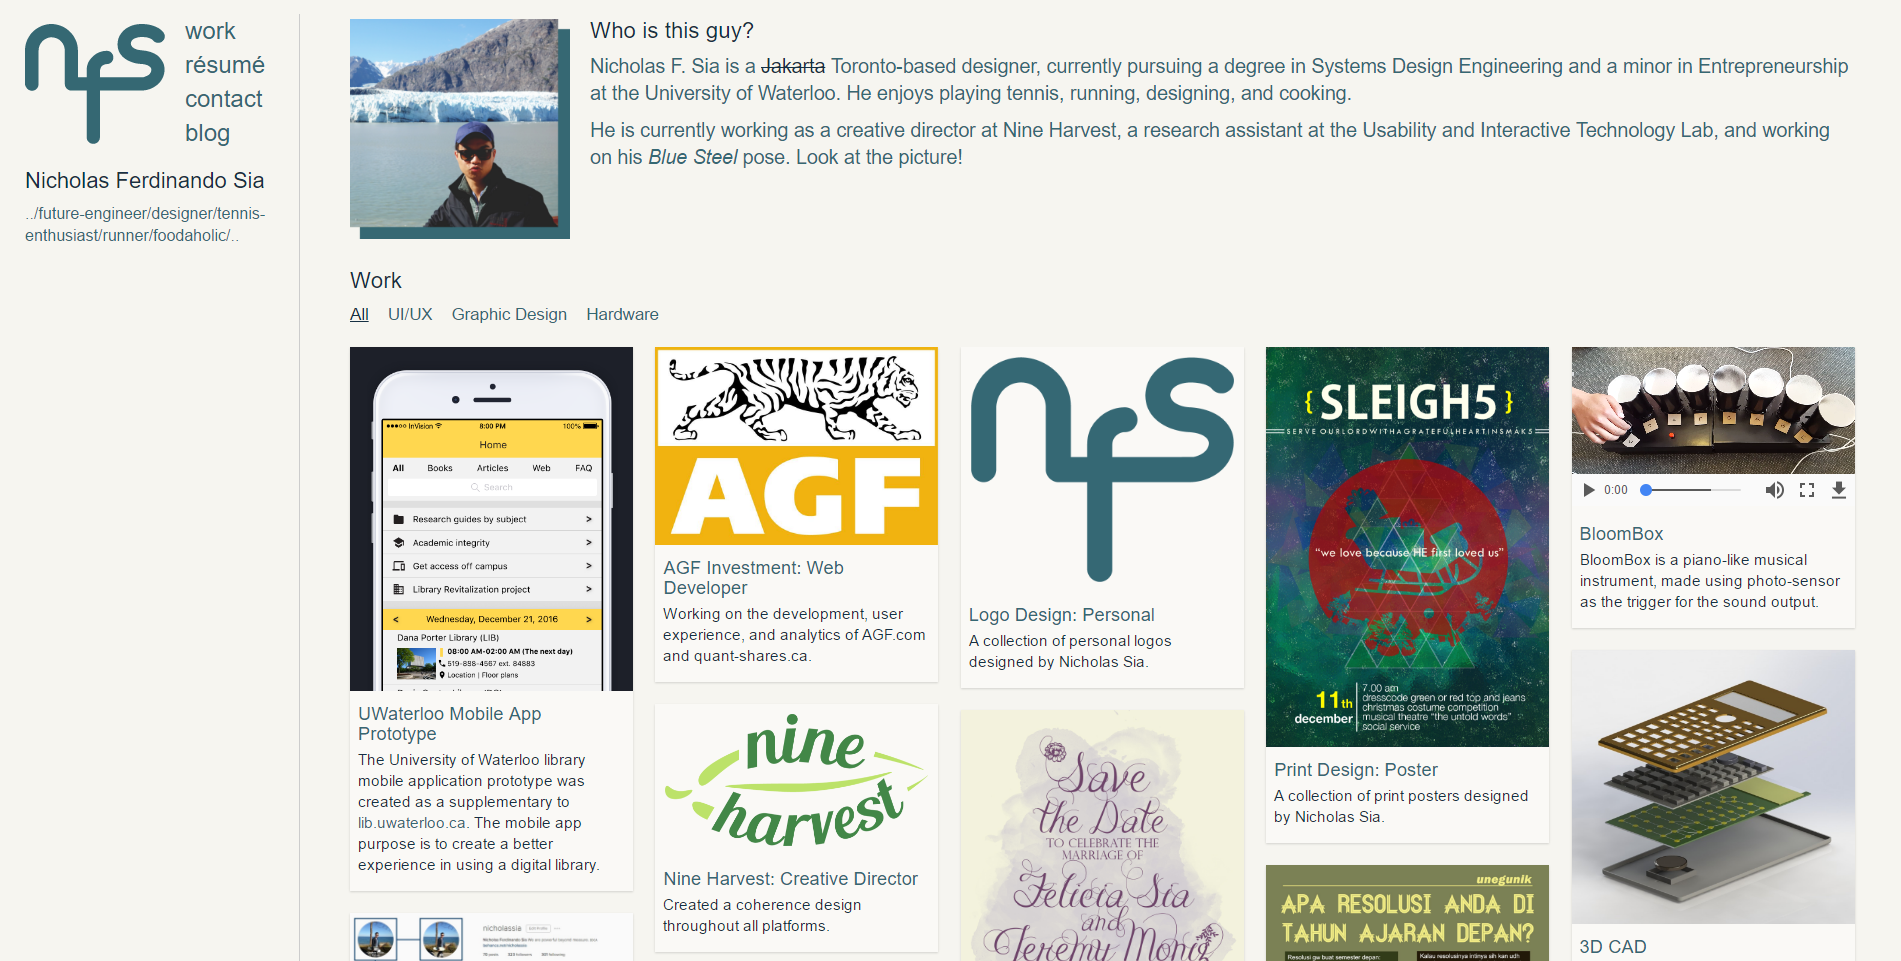
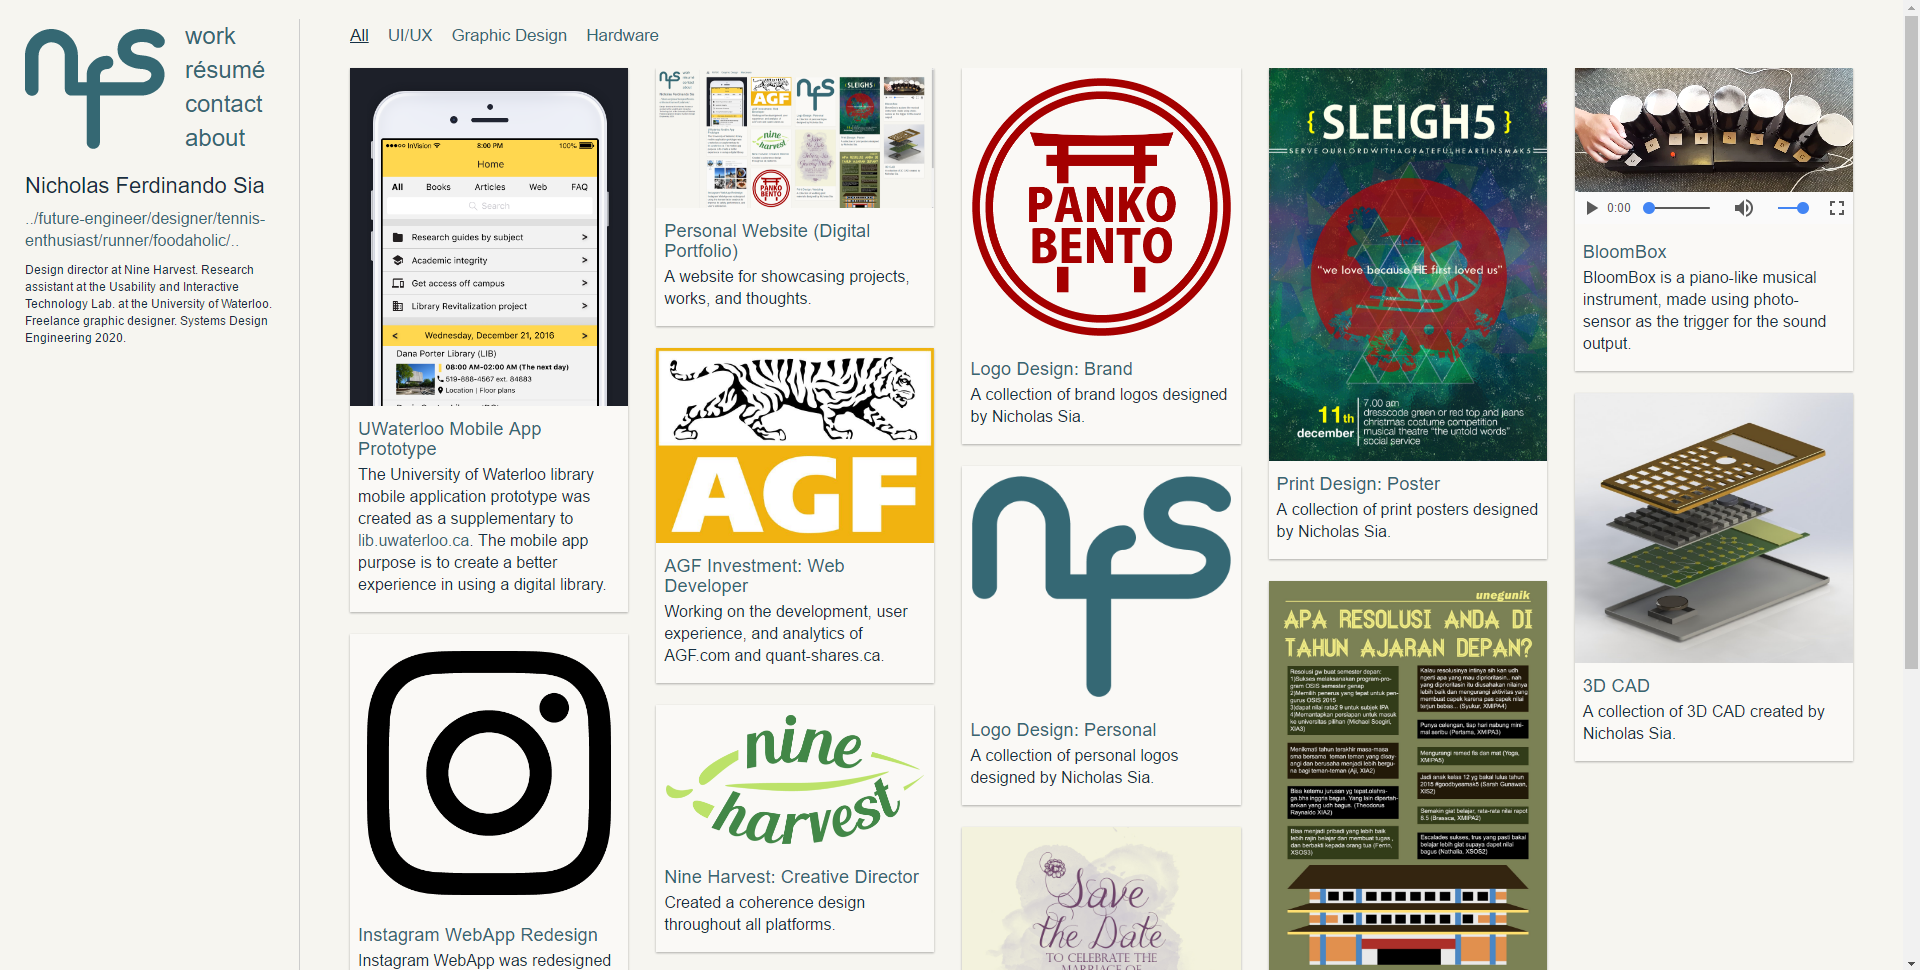
change card

diff --git a/index.html b/index.html
@@ -177,7 +177,7 @@
 							</div>	
 						</div>					
 						<div class="item ui_ux" id="instagram">
-							<a href="work/instagram"><img src="work/instagram/profile-page.jpg" class="img-thumb" alt="Instagram profile page WebApp redesign"/></a>
+							<a href="work/instagram"><img src="work/instagram/instagram-logo.png" class="img-thumb" alt="Instagram profile page WebApp redesign"/></a>
 							<div class="blurb">
 								<h2><a href="work/instagram">Instagram WebApp Redesign</a></h2>
 								<p>Instagram WebApp was redesigned using the human factor analysis to improve its safety, performance, and user’s satisfaction.</p>

diff --git a/css/main.css b/css/main.css
@@ -322,7 +322,7 @@ figcaption {
     box-sizing: border-box;
     -moz-box-sizing: border-box;
     -webkit-box-sizing: border-box;
-    box-shadow: 0 1px 2px rgba(0,0,0,.15);
+    box-shadow: 0 1px 2px rgba(0,0,0,.3);
     color: #356873;
     -webkit-transition: all .4s cubic-bezier(.77,0,.175,1);
     transition: all .4s cubic-bezier(.77,0,.175,1);
